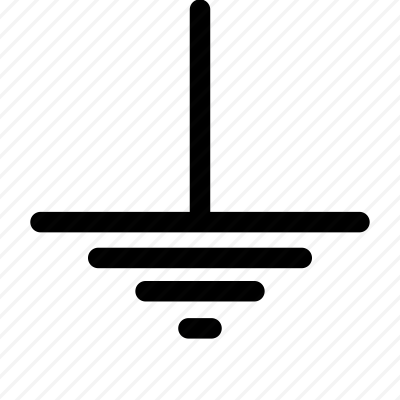
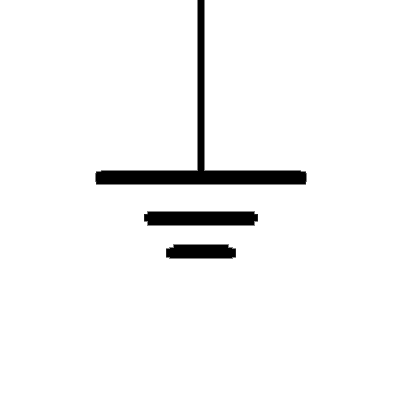
draw circuit class added

Changed region(s): [[0.06, 0.0, 0.93, 0.87]]

diff --git a/src/view/fxml/DrawCircuit.java b/src/view/fxml/DrawCircuit.java
@@ -1,0 +1,179 @@
+package view.fxml;
+
+import controller.InputController;
+import javafx.scene.control.Alert;
+import javafx.scene.image.Image;
+import javafx.scene.image.ImageView;
+import javafx.scene.layout.Pane;
+import javafx.scene.shape.Circle;
+import model.Branch;
+import model.Element;
+import model.Node;
+import model.Source;
+
+import java.util.ArrayList;
+
+public abstract class DrawCircuit {
+    private static double drawCircuitStep;
+    private static final Pane circuitPane = MainPageController.getInstance().getCircuitPane();
+
+    private static final Image resistor = new Image("view/img/element/Resistor.png");
+    private static final Image capacitor = new Image("view/img/element/Capacitor.png");
+    private static  final Image inductor = new Image("view/img/element/Inductor.png");
+    private static final Image diode = new Image("view/img/element/Diode.png");
+    private static final Image gnd = new Image("view/img/element/Ground.png");
+    private static final Image vSource = new Image("view/img/element/VSource.png");
+    private static final Image cSource = new Image("view/img/element/CSource.png");
+    private static final Image acSource = new Image("view/img/element/AcSource.png");
+    private static final Image controlledVSource = new Image("view/img/element/ControlledVSource.png");
+    private static final Image controlledCSource = new Image("view/img/element/ControlledCSource.png");
+    private static final Image wire = new Image("view/img/element/Wire.png");
+
+    public static void drawCircuit() {
+        drawCircuitStep = Math.min(circuitPane.getWidth() / 7, circuitPane.getHeight() / 6);
+        for (int i = 1; i <= 6; i++) {
+            for (int j = 1; j <= 5; j++) {
+                circuitPane.getChildren().add(new Circle(getXY(i), getXY(j), 1));
+            }
+        }
+        putGround();
+        putImage(resistor, 9, 3);
+        putImage(capacitor, 10, 4);
+        putImage(cSource, 11, 5);
+        putImage(inductor, 12, 11);
+        putImage(controlledCSource, 12, 6);
+        matchNodes(9, 10, 11);
+        matchNodes(3, 4, 5);
+        matchNodes(19, 25, 26, 27, 28, 29);
+        putImage(diode, 6, 5);
+        putImage(acSource, 9, 8);
+        putImage(controlledVSource, 7, 8);
+        putImage(wire, 7, 1);
+        putImage(wire, 1, 2);
+        putImage(vSource, 2, 3);
+        putImage(inductor, 29, 30);
+        putImage(resistor, 9.5, 3.5);
+    }
+
+    private static ArrayList<Branch> getBranches(Node node1, Node node2) {
+        ArrayList<Branch> branches = new ArrayList<>();
+        for (Element element : node1.getElements()) {
+            if (node2.getElements().contains(element)) {
+                branches.add(element);
+            }
+        }
+        for (Source source : node2.getSources()) {
+            if (node2.getSources().contains(source)) {
+                branches.add(source);
+            }
+        }
+        return branches;
+    }
+
+    private static void setParallelElement() {
+        InputController controller = new InputController();
+        int max = 0;
+        for (Node node : controller.getNodes()) {
+            max = Math.max(max, node.getElements().size() + node.getSources().size());
+        }
+        Node middleNode;
+        for (Node node : controller.getNodes()) {
+            if (max == node.getElements().size() + node.getSources().size()) {
+                middleNode = node;
+            }
+        }
+
+    }
+
+    private static void matchNodes(double... doubles) {
+        double[] nodes = doubles.clone();
+        for (int i = 1; i < nodes.length; i++) {
+            putImage(wire, nodes[i], nodes[i - 1]);
+        }
+    }
+
+    private static PaneNode convertNodeNumToPaneNode(double num) {
+        double x = num % 6 != 0 ? num % 6 : 6;
+        double y = 6 - Math.ceil(num / 6 );
+        return getNode(x, y);
+    }
+
+    private static double getXY(double XY) {
+        return XY * drawCircuitStep;
+    }
+
+    private static PaneNode getNode(double x, double y) {
+        return new PaneNode(getXY(x), getXY(y));
+    }
+
+    private static PaneNode getLayoutNode(PaneNode middlePoint) {
+        return new PaneNode(middlePoint.nodeX - drawCircuitStep / 2, middlePoint.nodeY - drawCircuitStep / 2);
+    }
+
+    private static void putGround() {
+        ImageView imageView = new ImageView(gnd);
+        imageView.setFitWidth(drawCircuitStep);
+        imageView.setFitHeight(drawCircuitStep);
+        imageView.setLayoutX(getXY(3));
+        imageView.setLayoutY(getXY(5));
+        circuitPane.getChildren().add(imageView);
+    }
+
+    private static void putImage(Image image, double numNode1, double numNode2) {
+        PaneNode node1 = convertNodeNumToPaneNode(numNode1);
+        PaneNode node2 = convertNodeNumToPaneNode(numNode2);
+        ImageView imageView = new ImageView(image);
+        imageView.setFitWidth(drawCircuitStep);
+        imageView.setFitHeight(drawCircuitStep);
+        if (node1.nodeX == node2.nodeX && Math.abs(node1.nodeY - node2.nodeY) == getXY(1)) {
+            if (node1.nodeY > node2.nodeY) {
+                imageView.setRotate(180);
+            }
+            PaneNode middlePoint = new PaneNode(node1.nodeX, (node1.nodeY + node2.nodeY) / 2);
+            PaneNode node = getLayoutNode(middlePoint);
+            imageView.setLayoutX(node.nodeX);
+            imageView.setLayoutY(node.nodeY);
+            circuitPane.getChildren().add(imageView);
+        } else if (node1.nodeY == node2.nodeY && Math.abs(node1.nodeX - node2.nodeX) == getXY(1)) {
+            if (node1.nodeX < node2.nodeX) {
+                imageView.setRotate(-90);
+            } else {
+                imageView.setRotate(90);
+            }
+            PaneNode middlePoint = new PaneNode((node1.nodeX + node2.nodeX) / 2, node1.nodeY);
+            PaneNode node = getLayoutNode(middlePoint);
+            imageView.setLayoutX(node.nodeX);
+            imageView.setLayoutY(node.nodeY);
+            circuitPane.getChildren().add(imageView);
+        } else {
+            Alert alert = new Alert(Alert.AlertType.ERROR);
+            alert.setContentText("Not Possible!");
+            alert.show();
+        }
+    }
+
+
+}
+
+class PaneNode {
+    double nodeX;
+    double nodeY;
+    int nodeNumber;
+
+    public PaneNode(double nodeX, double nodeY) {
+        this.nodeX = nodeX;
+        this.nodeY = nodeY;
+    }
+
+    public void setNodeNumber(int nodeNumber) {
+        this.nodeNumber = nodeNumber;
+    }
+
+    @Override
+    public String toString() {
+        return "PaneNode{" +
+                "nodeX=" + nodeX +
+                ", nodeY=" + nodeY +
+                '}';
+    }
+}

diff --git a/src/view/fxml/MainPageController.java b/src/view/fxml/MainPageController.java
@@ -1,5 +1,6 @@
 package view.fxml;
 
+import controller.InputController;
 import controller.Solver;
 import javafx.application.Platform;
 import javafx.concurrent.Task;
@@ -16,6 +17,10 @@ import javafx.scene.layout.Pane;
 import javafx.scene.shape.Circle;
 import javafx.stage.FileChooser;
 import javafx.stage.Stage;
+import model.Branch;
+import model.Element;
+import model.Node;
+import model.Source;
 import view.Errors;
 import view.file.FileScanner;
 
@@ -50,19 +55,6 @@ public class MainPageController {
     private File file;
     private String firstBackUpText;
     private final ExecutorService executor = Executors.newCachedThreadPool();
-    private double drawCircuitStep;
-
-    private final Image resistor = new Image("view/img/element/Resistor.png");
-    private final Image capacitor = new Image("view/img/element/Capacitor.png");
-    private final Image inductor = new Image("view/img/element/Inductor.png");
-    private final Image diode = new Image("view/img/element/Diode.png");
-    private final Image gnd = new Image("view/img/element/Ground.png");
-    private final Image vSource = new Image("view/img/element/VSource.png");
-    private final Image cSource = new Image("view/img/element/CSource.png");
-    private final Image acSource = new Image("view/img/element/AcSource.png");
-    private final Image controlledVSource = new Image("view/img/element/ControlledVSource.png");
-    private final Image controlledCSource = new Image("view/img/element/ControlledCSource.png");
-    private final Image wire = new Image("view/img/element/Wire.png");
 
     public void addNewTab() {
         if (FileScanner.hasFile) {
@@ -256,96 +248,16 @@ public class MainPageController {
     }
 
     public void drawCircuit() {
-        drawCircuitStep = Math.min(circuitPane.getWidth() / 7, circuitPane.getHeight() / 6);
-        for (int i = 1; i <= 6; i++) {
-            for (int j = 1; j <= 5; j++) {
-                circuitPane.getChildren().add(new Circle(getXY(i), getXY(j), 1));
-            }
-        }
-        putImage(resistor, 9, 3);
-        putImage(capacitor, 10, 4);
-        putImage(cSource, 11, 5);
-        putImage(inductor, 12, 11);
-        putImage(controlledCSource, 12, 6);
-        putImage(wire, 9, 10);
-        putImage(wire, 10, 11);
-        putImage(wire, 3, 4);
-        putImage(wire, 4, 5);
-        putImage(diode, 5, 6);
-        putImage(acSource, 9, 8);
-        putImage(controlledVSource, 7, 8);
-        putImage(wire, 7, 1);
-        putImage(wire, 1, 2);
-        putImage(vSource, 2, 3);
+        DrawCircuit.drawCircuit();
     }
-
-    private PaneNode convertNodeNumToPaneNode(double num) {
-        double x = num % 6 != 0 ? num % 6 : 6;
-        double y = 6 - Math.ceil(num / 6 );
-        return getNode(x, y);
-    }
-
-    private double getXY(double XY) {
-        return XY * drawCircuitStep;
-    }
-
-
-    private PaneNode getNode(double x, double y) {
-        return new PaneNode(getXY(x), getXY(y));
-    }
-
-    private PaneNode getLayoutNode(PaneNode middlePoint) {
-        return new PaneNode(middlePoint.nodeX - drawCircuitStep / 2, middlePoint.nodeY - drawCircuitStep / 2);
-    }
-
-    private void putImage(Image image, double numNode1, double numNode2) {
-        PaneNode node1 = convertNodeNumToPaneNode(numNode1);
-        PaneNode node2 = convertNodeNumToPaneNode(numNode2);
-        ImageView imageView = new ImageView(image);
-        imageView.setFitWidth(drawCircuitStep);
-        imageView.setFitHeight(drawCircuitStep);
-        if (node1.nodeX == node2.nodeX) {
-            PaneNode middlePoint = new PaneNode(node1.nodeX, (node1.nodeY + node2.nodeY) / 2);
-            PaneNode node = getLayoutNode(middlePoint);
-            imageView.setLayoutX(node.nodeX);
-            imageView.setLayoutY(node.nodeY);
-            circuitPane.getChildren().add(imageView);
-        } else if (node1.nodeY == node2.nodeY) {
-            imageView.setRotate(90);
-            PaneNode middlePoint = new PaneNode((node1.nodeX + node2.nodeX) / 2, node1.nodeY);
-            PaneNode node = getLayoutNode(middlePoint);
-            imageView.setLayoutX(node.nodeX);
-            imageView.setLayoutY(node.nodeY);
-            circuitPane.getChildren().add(imageView);
-        } else {
-            Alert alert = new Alert(Alert.AlertType.ERROR);
-            alert.setContentText("Not Possible!");
-            alert.show();
-        }
-    }
-
-    //  GETTERS AND SETTERS
+//  GETTERS AND SETTERS
 
     public static Stage getStage() {
         return Stage;
     }
 
-}
-
-class PaneNode {
-    double nodeX;
-    double nodeY;
-
-    public PaneNode(double nodeX, double nodeY) {
-        this.nodeX = nodeX;
-        this.nodeY = nodeY;
-    }
-
-    @Override
-    public String toString() {
-        return "PaneNode{" +
-                "nodeX=" + nodeX +
-                ", nodeY=" + nodeY +
-                '}';
+    public Pane getCircuitPane() {
+        return circuitPane;
     }
 }
+

diff --git a/src/model/Node.java b/src/model/Node.java
@@ -15,6 +15,7 @@ public class Node {
     private Node parentNode = null;
     private Union includingUnion;
     private int isVisited;
+    private int nodeNeed;
 
 
     public Node (String name) {
@@ -26,7 +27,8 @@ public class Node {
         this.elements = new ArrayList<>();
         this.sources = new ArrayList<>();
         this.voltages = new ArrayList<>();
-        voltages.add(0.0);
+        this.voltages.add(0.0);
+        this.nodeNeed = 0;
     }
 
     public double getTotalCurrent(){
@@ -63,6 +65,10 @@ public class Node {
         return voltage;
     }
 
+    public int getNodeNeed() {
+        return nodeNeed;
+    }
+
     public ArrayList<Node> getNeighborNodes() {
         return neighborNodes;
     }
@@ -95,6 +101,10 @@ public class Node {
         if (!name.equals("0")) {
             this.voltage = voltage;
         }
+    }
+
+    public void setNodeNeed(int nodeNeed) {
+        this.nodeNeed = nodeNeed;
     }
 
     @Override

diff --git a/src/controller/UnionCreator.java b/src/controller/UnionCreator.java
@@ -38,7 +38,7 @@ public class UnionCreator {
         // PRINTING PARENT OF EACH NODE
         /*for (Node node : controller.getNodes()) {
             System.out.println("parent of node "+ node.getName()+" is:" + node.getParentNode().getName());
-        }*/
+        }
 
         // PRINTING UNIONS
         System.out.println("\n---------------");
@@ -51,8 +51,12 @@ public class UnionCreator {
             System.out.println("---------------");
         }
 
+         */
+
         return true;
     }
+
+
 
     private void processNodesParentSetting(Node groundNode) {
 

diff --git a/src/controller/Solver.java b/src/controller/Solver.java
@@ -45,7 +45,7 @@ public class Solver {
             Errors.print("\n***(time = " + _time + ")***");
             output.append("\n***(time = ").append(_time).append(")***");
 
-            solve();
+            solve3();
 
             errors.add(measureErrorEachStep);
 
